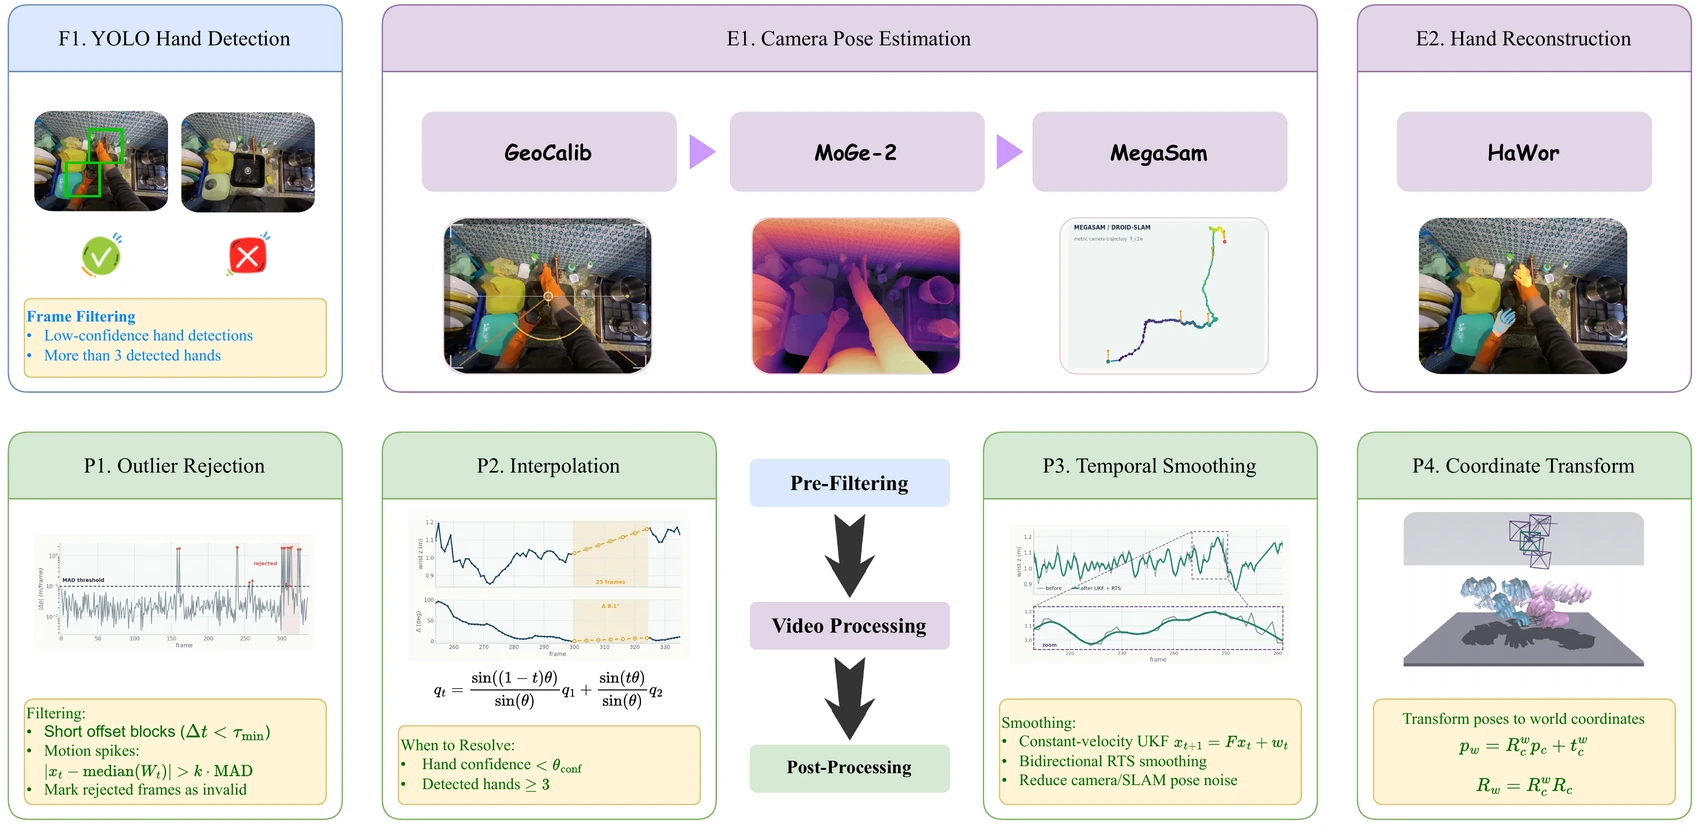
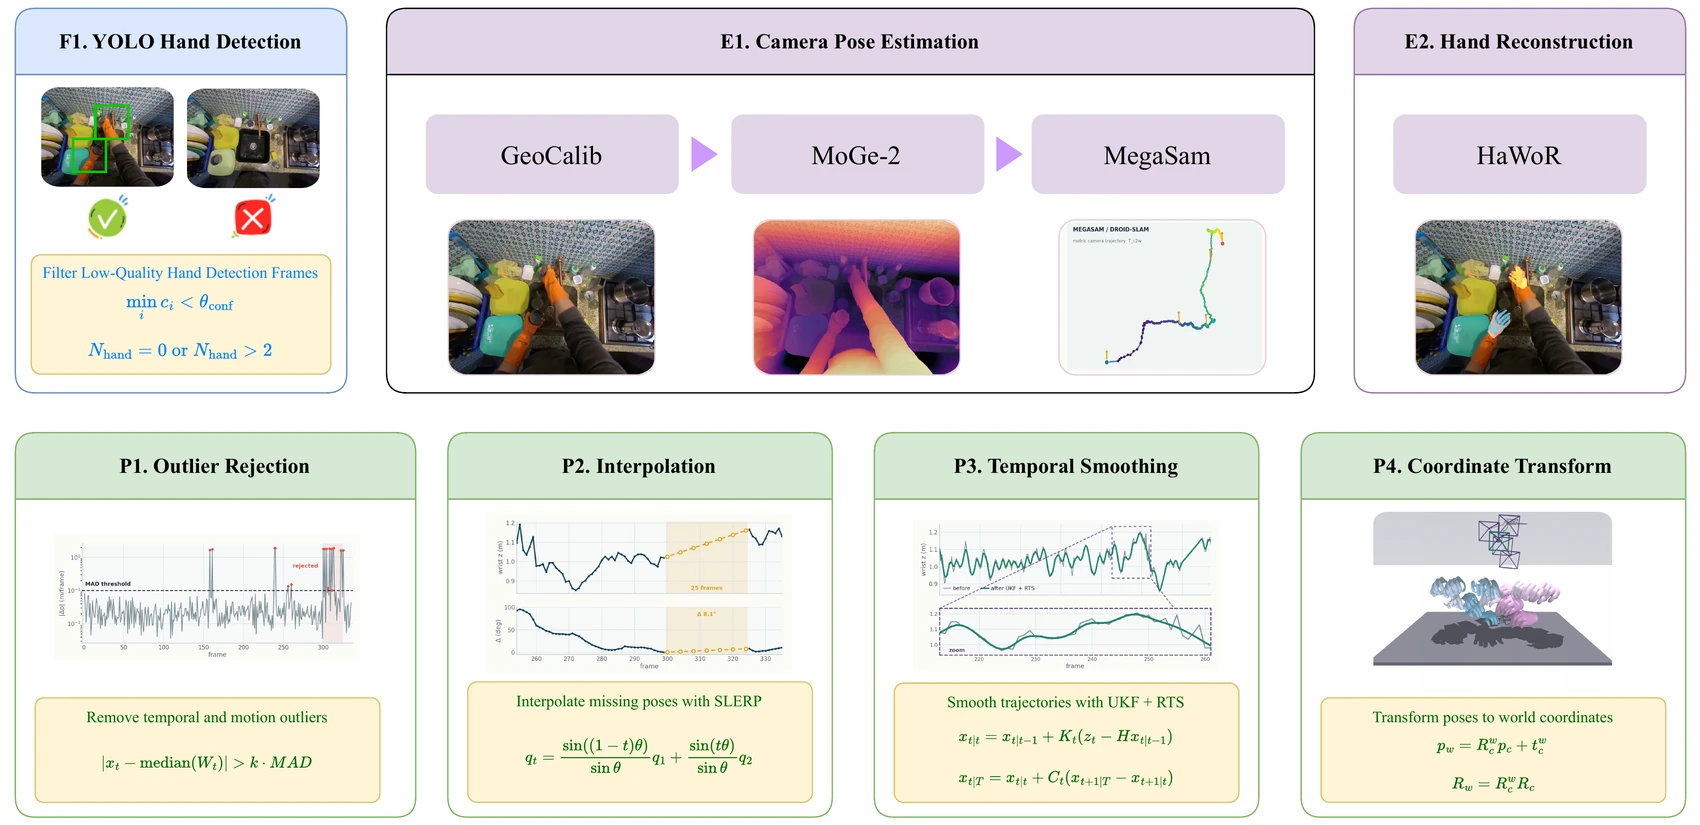
docs: use the corrected EgoPipeline figure, explain the 59.1% yield
The previous figure's F1 box read "More than 3 detected hands"; the rule the
code applies is N_hand = 0 or N_hand > 2, which the new drawio export states
correctly. Also note that the yield is the whole chain accumulated and cannot
be attributed per rule here, since the final packing step lives elsewhere.

diff --git a/assets/readme/SOURCES.md b/assets/readme/SOURCES.md
@@ -12,7 +12,7 @@ so every moving asset here is an animated WebP.
 | `pipeline_vs_mint.webp` | `ego4d_c001_f869_ep00175026_o001` (`original_rgb` / `egopipeline_prediction` / `model_prediction`), 2.4–8.0 s, burnt-in title bars cropped | Same frames through the multi-stage pipeline and through MINT |
 | `figure_execution.webp` | `materials/sub_pic/ego_pipeline/execution_optimization/v1/images/07_execution_optimization_v2.png`, downscaled to 1700 px wide | Measured EgoPipeline execution telemetry: serial 1-GPU baseline, then the scheduled 4-GPU worker pool. Kept for reuse; **not referenced by either README** — the 2.8× it shows is now stated in the text of *Why one model instead of the chain* |
 | `figure_teaser.webp` | `Teaser.pdf` (diagrams.net), rasterised at 3434 px and downscaled to 1700 px wide | The paper teaser: released corpus and its diversity beside one zero-shot world-space result. Opens *How MINT works* |
-| `figure_egopipeline.webp` | `Egopipeline.pdf` (diagrams.net), rasterised at 3409 px and downscaled to 1700 px wide | EgoPipeline's stages and post-processing. Sits above *Where the supervision comes from* |
+| `figure_egopipeline.webp` | `egopipeline.drawioV3(2).pdf` (diagrams.net), rasterised at 3409 px and downscaled to 1700 px wide | EgoPipeline's stages and post-processing. Sits above *Where the supervision comes from* |
 | `figure_architecture.webp`, `figure_system.webp` | `overleaf/materials/pictures/*` | The paper's earlier figures, downscaled. Kept for reuse; **no longer referenced by either README** — replaced by `figure_teaser.webp` and `figure_egopipeline.webp` |
 | `teaser.webp` | same render as `world_space.webp`, frame at 7.4 s | The three prediction panels — ego view, world space, Wuji retarget. Illustrates *Why one model instead of the chain* |
 

diff --git a/README.md b/README.md
@@ -430,6 +430,8 @@ We provide the non-video portions of the `ego4d`, `egodex`, and `epickitchen` da
 | Sources | Ego4D 332.874 h · EPIC-KITCHENS-100 55.194 h · EgoDex 633.446 h |
 | Yield | 59.1 % of 1,729 raw hours |
 
+That figure is the whole chain accumulated, not any single rule: normalisation, [cutting stretches with no hands or more than two](ego_pipeline/preprocessing/), dropping segments that end up too short, per-stage failures and timeouts, and outlier rejection during trajectory cleaning all reduce what survives. The final step — packing the cleaned results into the training LeRobot dataset — runs in an internal repository and is not part of this release, so only the overall figure is given here; it cannot be broken down per rule.
+
 > **Important: the camera trajectories in this data were generated by this repository's Ego data pipeline and currently exhibit obvious scale enlargement. We recommend using the data only to pretrain this project's Ego hand reconstruction model. Do not use it for real-scale evaluation, precise camera trajectory evaluation, or as real-scale ground truth.**
 
 The public dataset does not include `.mp4` videos. The source videos belong to Ego4D, EgoDex, and EPIC-KITCHENS and are governed by their respective dataset licenses and access terms, so this project cannot redistribute them. Users who need the videos must apply for and download them through the corresponding official dataset channels and verify their own usage and redistribution rights.

diff --git a/README_ZH.md b/README_ZH.md
@@ -427,6 +427,8 @@ Stage 2 配置中的 `train.init_from` 已指向 Stage 1 的 `step_00019000/mode
 | 来源 | Ego4D 332.874 h · EPIC-KITCHENS-100 55.194 h · EgoDex 633.446 h |
 | 通过率 | 1,729 原始小时的 59.1 % |
 
+这个通过率是整条链累计下来的结果，不是某一道规则的效果：视频规格化、[无手与超过两只手的区间被切除](ego_pipeline/preprocessing/)、片段过短被丢弃、管线各级的失败与超时，以及轨迹清理阶段的离群剔除，都会减少最终保留量。最后一步 —— 把清理后的结果打包成训练用的 LeRobot 数据集 —— 在内部仓库中完成，不随本仓库发布，所以这里只给出总的通过率，无法逐级拆分每道规则各筛掉多少。
+
 > **重要说明：这些数据中的相机轨迹由本仓库的 Ego 数据管线处理生成，当前存在明显的尺度放大现象。建议仅将其用于本项目 Ego 手部重建模型的预训练，不建议用于真实尺度评估、精确相机轨迹评测或作为真实尺度 Ground Truth。**
 
 公开数据集不包含 `.mp4` 视频。原始视频分别来自 Ego4D、EgoDex 和 EPIC-KITCHENS，受各自数据集许可证及访问条款约束，无法由本项目重新分发。需要视频的使用者应从对应数据集官方渠道申请和下载，并自行确认使用与再分发权限。
